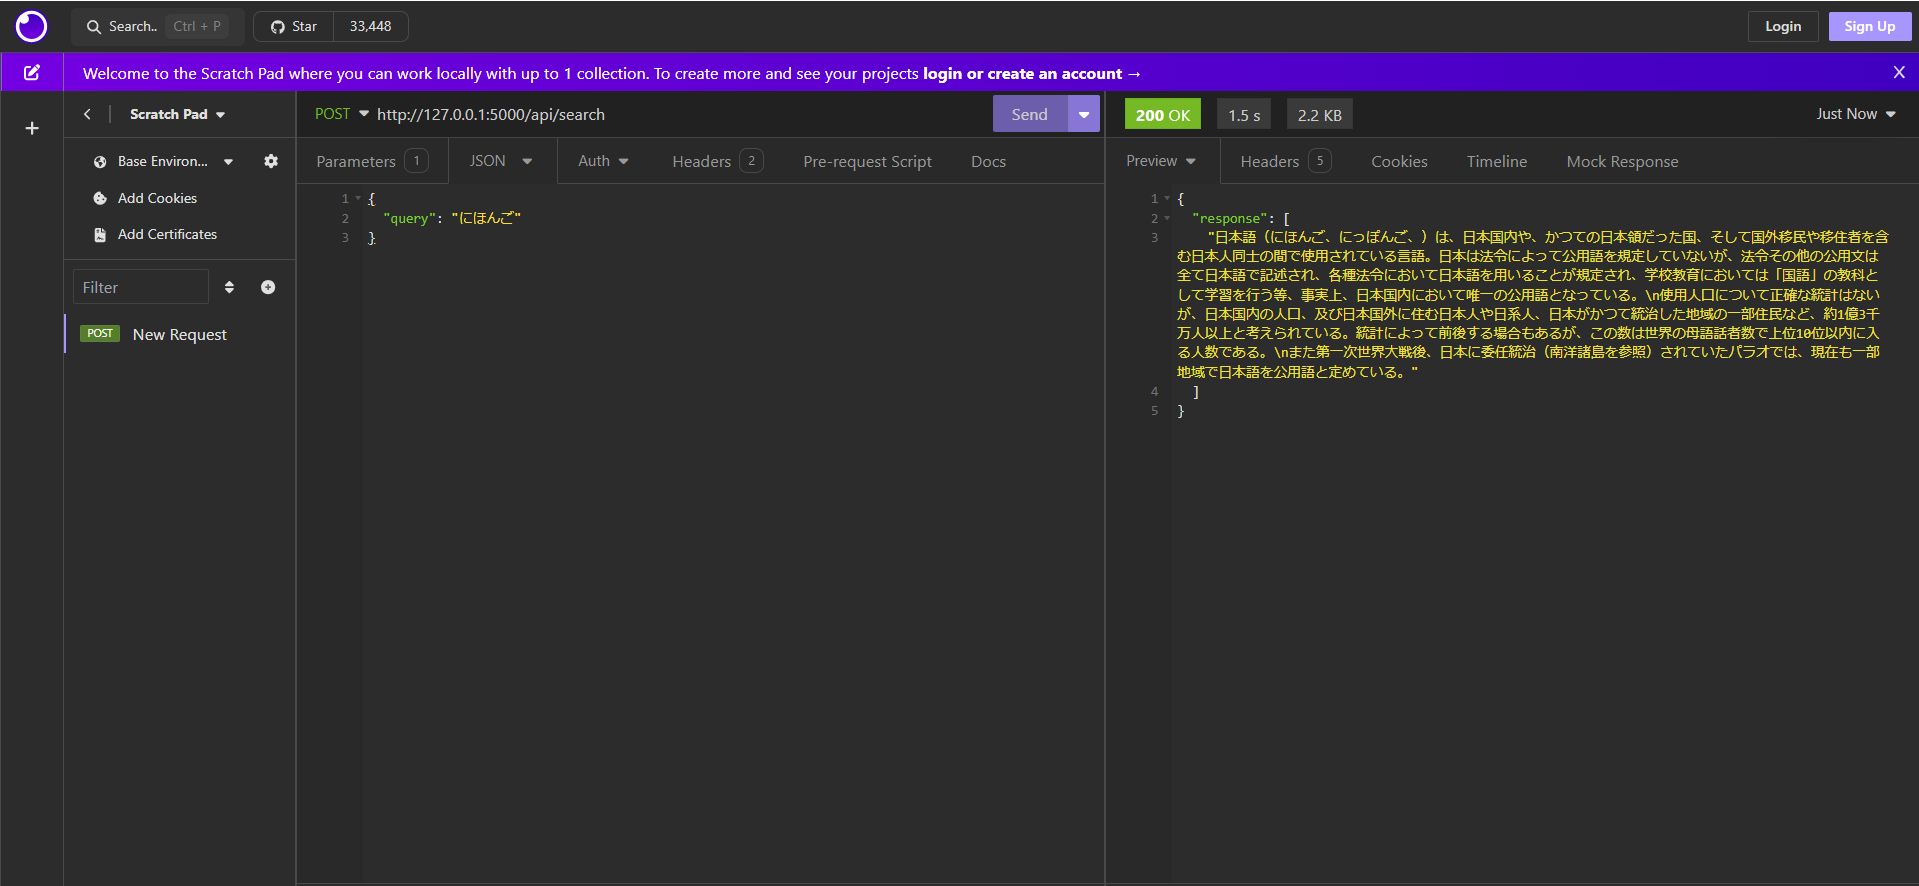
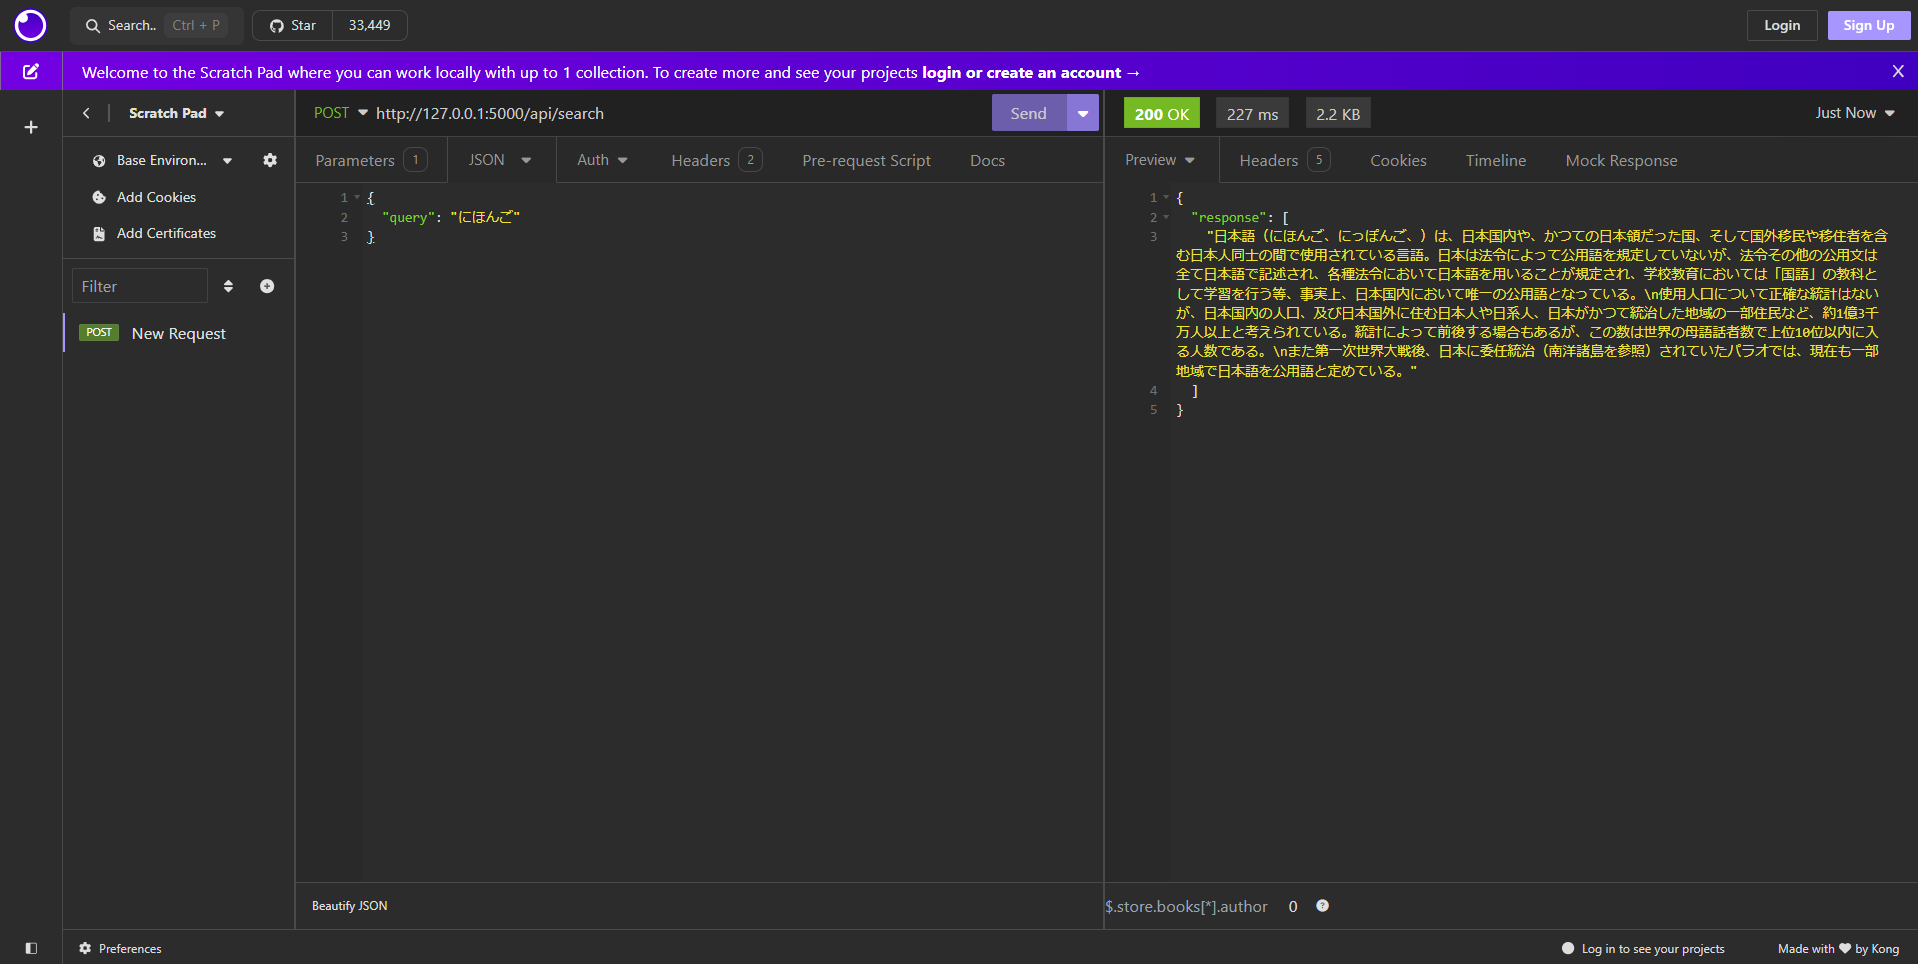
update readme

diff --git a/README.md b/README.md
@@ -5,7 +5,7 @@ Authors:
 
 
 
-This project is a Japanese Wiki Search Engine designed to retrieve information from Japanese language Wikipedia articles efficiently. It utilizes a combination of indexing, querying, and ranking algorithms to provide relevant results to user queries.
+This project is a Japanese Wiki Search Engine designed to retrieve information from Japanese language Wikipedia articles (7000 documents) efficiently. It utilizes a combination of indexing, querying, and ranking algorithms to provide relevant results to user queries.
 
 
 
@@ -59,7 +59,7 @@ The k texts with the highest scores will be selected.
 
 ![image](Assets/Demo.png)
 
-In this case, the query speed is 1.5s
+In this case, the query speed is 227ms.
 
 
 
